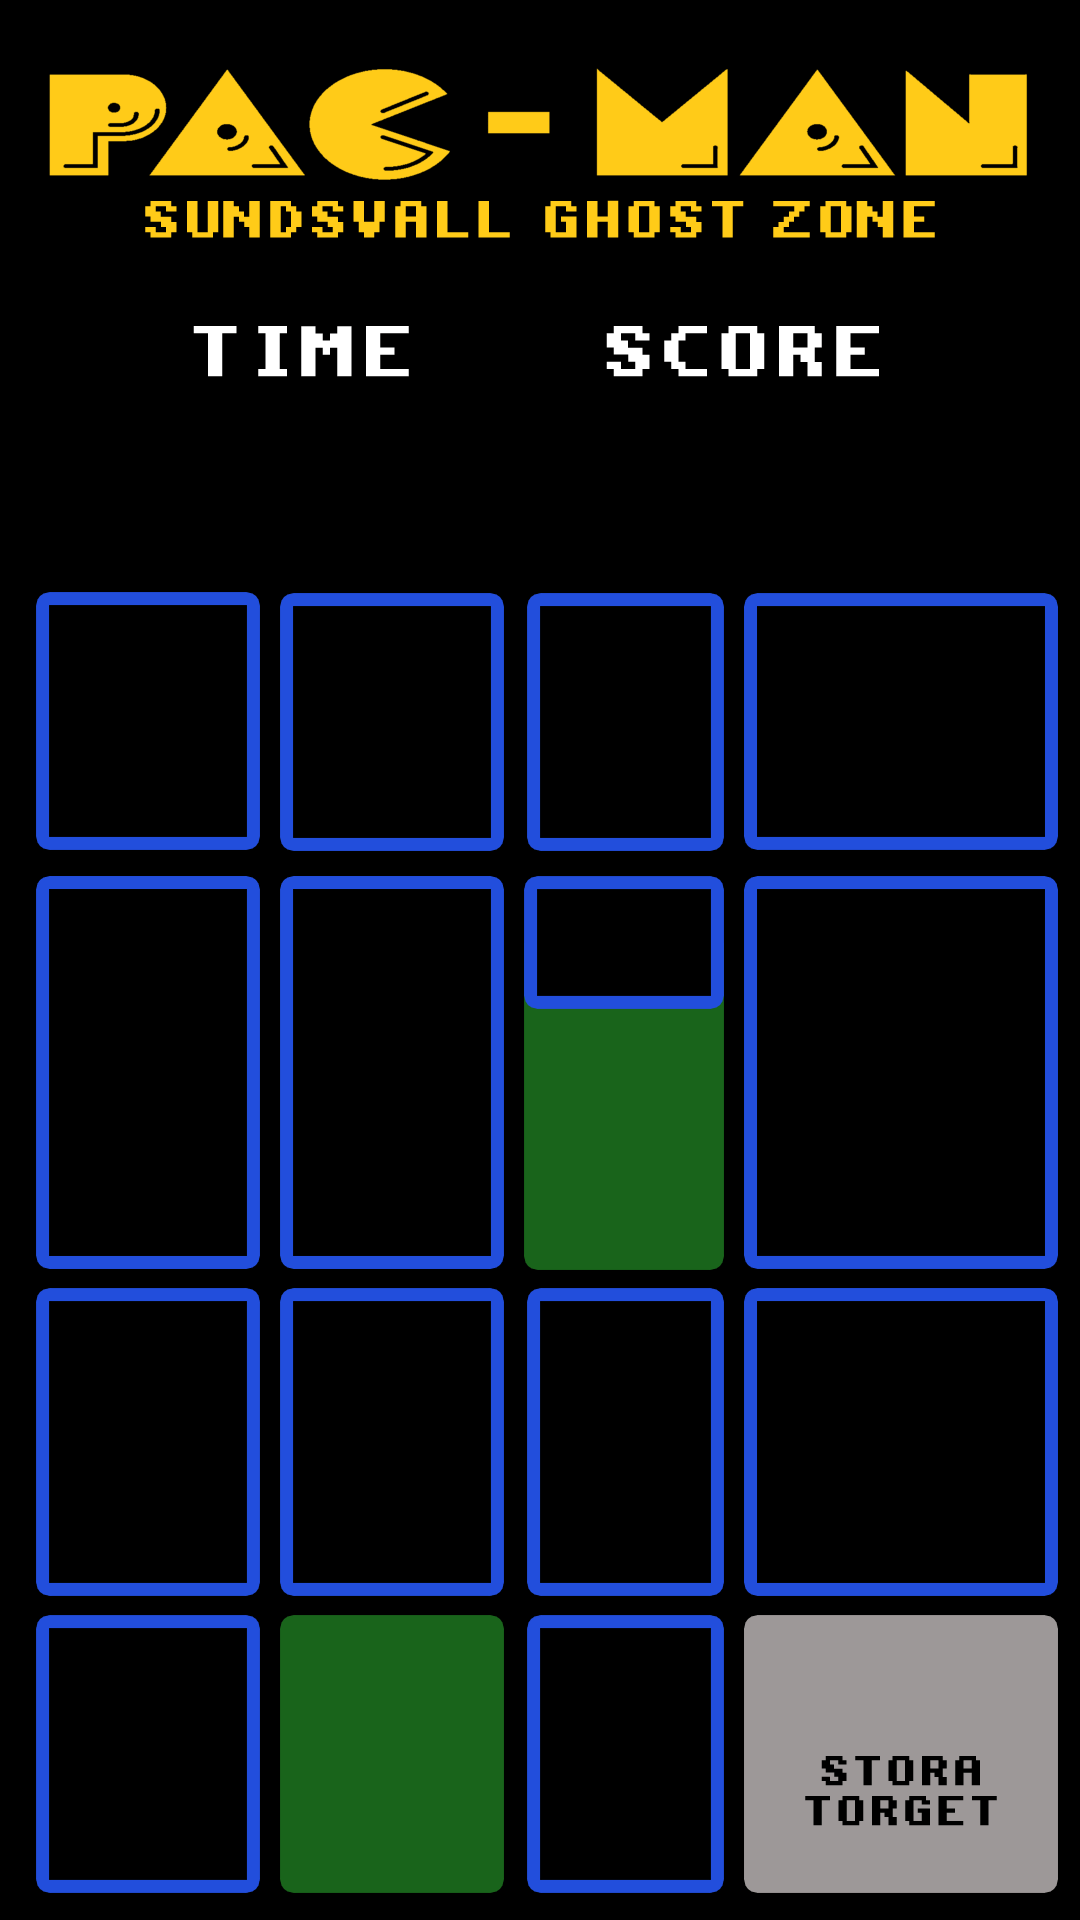
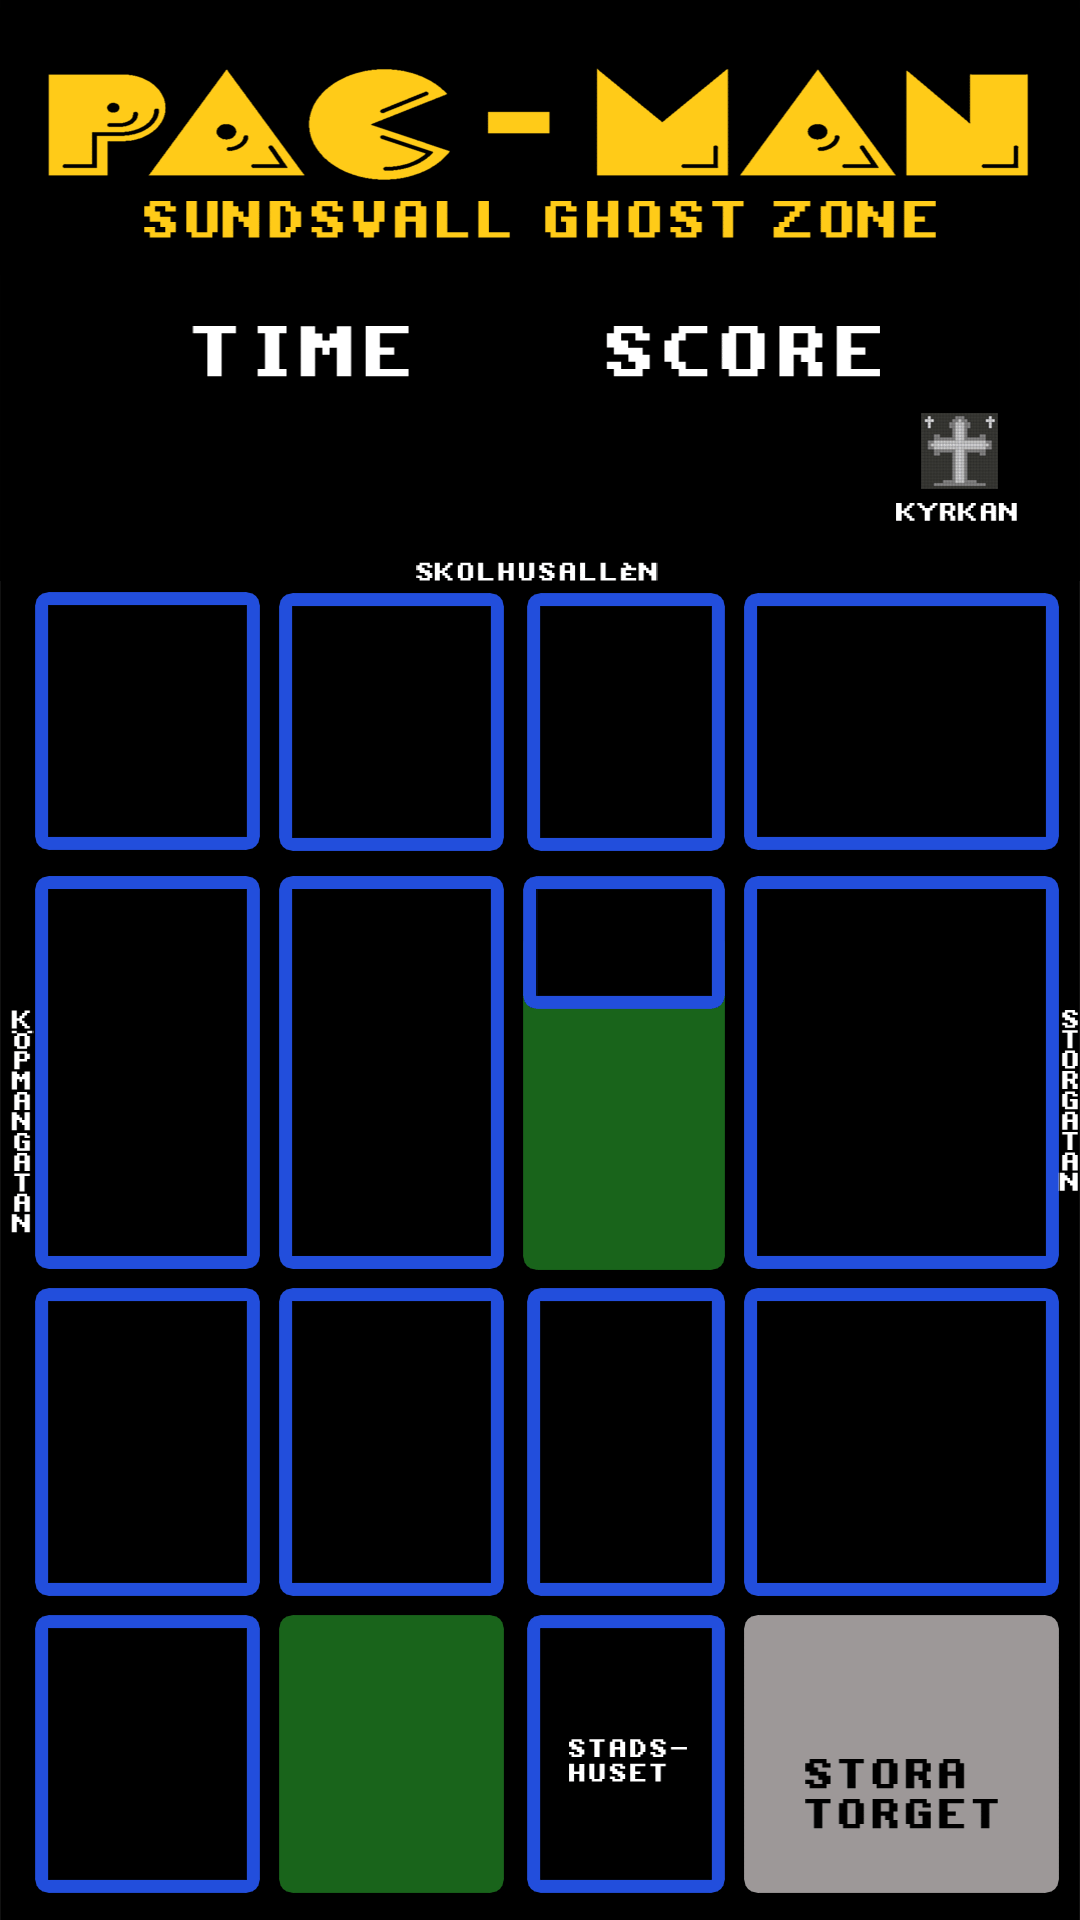
Added map marker button and changed original board. Also slowed down the ghosts a bit

diff --git a/pacman.min.js b/pacman.min.js
@@ -1,1 +1,1 @@
-const gameWidth=1080,gameHeight=1920;var gameStarted=!1,noSleep=new NoSleep;function calculateDistance(q,s,u,v){var z=(u-q).toRad(),A=(v-s).toRad(),B=Math.sin(z/2)*Math.sin(z/2)+Math.cos(q.toRad())*Math.cos(u.toRad())*Math.sin(A/2)*Math.sin(A/2),C=2*Math.atan2(Math.sqrt(B),Math.sqrt(1-B));return 6371000*C}Number.prototype.toRad=function(){return this*Math.PI/180};function lerp(q,s,u){return q*(1-u)+s*u}function calculateSnapGrid(){var q={x:37,y:861,lat:62.389415,lon:17.301815},s={x:1053,y:861,lat:62.391632,lon:17.302909},u={x:37,y:1279,lat:62.389211,lon:17.303724},v={x:1053,y:1279,lat:62.391394,lon:17.304851},w={x:37,y:1605,lat:62.389052,lon:17.305226},z={x:1053,y:1605,lat:62.39123,lon:17.306374},A={x:269,y:593,lat:62.390056,lon:17.30087},B={x:269,y:1891,lat:62.38945,lon:17.306793},C={x:514,y:593,lat:62.390573,lon:17.301106},D={x:514,y:1891,lat:62.389917,lon:17.307104},E={x:731,y:593,lat:62.391085,lon:17.301332},F={x:731,y:1891,lat:62.390374,lon:17.307372},G={x:37,y:593,lat:62.389549,lon:17.300591},H={x:37,y:1891,lat:62.388898,lon:17.306525},I={x:1053,y:1891,lat:62.391066,lon:17.307737},J={x:1053,y:593,lat:62.391752,lon:17.301772};const K=100;for(var L=[[q,s],[u,v],[w,z],[A,B],[C,D],[E,F],[G,H],[H,I],[J,I],[G,J]],M=[],J=0;J<L.length;J++)for(var P,N=L[J][0],O=L[J][1],C=0;C<=K;C++)P={lat:lerp(N.lat,O.lat,C/K),lon:lerp(N.lon,O.lon,C/K),x:Math.round(lerp(N.x,O.x,C/K)),y:Math.round(lerp(N.y,O.y,C/K))},M.push(P);return M}$(function(){$("#startGame").click(function(){$("#register").hide(),noSleep.enable(),startGame()})});function startGame(){function q(){D(ca.renderer,ca.stage)}function u(da,ea,fa){return da*(1-fa)+ea*fa}function v(da,ea,fa,ga,ha){for(var ia=0;ia<ga;ia++){if(ha!==void 0&&0<ha.length&&ia===ha[0]){ha.shift();continue}dot=new aa(Z["assets/pacdot.png"].texture),dot.position.set(u(da,ea,ia/ga),fa),ca.stage.addChild(dot),L.push(dot)}}function w(da,ea,fa,ga,ha){for(var ia=0;ia<ga;ia++){if(ha!==void 0&&0<ha.length&&ia===ha[0]){ha.shift();continue}dot=new aa(Z["assets/pacdot.png"].texture),dot.position.set(fa,u(da,ea,ia/ga)),ca.stage.addChild(dot),L.push(dot)}}function z(){this.progress.toFixed(0)}function A(){let da=0.5;H=new aa(Z["assets/board.png"].texture),ca.stage.addChild(H),ca.stage.addChild(T),ca.stage.addChild(U),ca.stage.addChild(V),T.position.set(650,390),U.position.set(184,390),V.position.set((gameWidth-V.width)/2,480),v(60,1060,1600,25,[5,11,17]),v(60,1060,1273,25,[5,17]),v(60,1060,857,25,[5,11]),w(591,1920,265,35),w(591,1920,510,35,[18]),w(591,1920,728,35,[7]),I=new aa(Z["assets/pacman.png"].texture),I.position.set(-30,-30),I.vx=0,I.vy=0,I.anchor.set(0.5,0.5),ca.stage.addChild(I),geocache=new aa(Z["assets/geocache.png"].texture),geocache.position.set(850,1645),geocache.visible=!1,ca.stage.addChild(geocache),[{name:"blue",x:234,y:580,vy:da,vx:0},{name:"pink",x:700,y:880,vy:da,vx:0},{name:"yellow",x:480,y:1240,vy:0,vx:-da},{name:"red",x:20,y:1564,vy:0,vx:da}].forEach(function(fa){var ga=new aa(Z["assets/"+fa.name+"ghost.png"].texture);ga.position.set(fa.x,fa.y),ca.stage.addChild(ga),ga.data=fa,N.push(ga)}),M=L.length,J=new aa(Z["assets/gameover.png"].texture),J.position.set(350,900),J.visible=!1,ca.stage.addChild(J),K=new aa(Z["assets/winner.png"].texture),K.position.set((gameWidth-K.width)/2,800),K.visible=!1,ca.stage.addChild(K),ca.ticker.add(fa=>B(fa)),setInterval(function(){q()},2e3),W=new Date}function B(){L.forEach(function(ea){ea.visible&&C(ea,I)&&(ea.visible=!1,M--,S+=100,T.text=S,O.play())}),0===M&&(ca.ticker.stop(),geocache.visible=!0,K.visible=!0,$.post("saveresult.php",{username:$("#username").val(),timespent:X,score:S},function(ea){console.log(ea)})),N.forEach(function(ea){ea.x+=ea.data.vx,ea.y+=ea.data.vy,(20>ea.x||ea.x>gameWidth-(ea.width+20))&&(ea.data.vx=-ea.data.vx),(560>ea.y||ea.y>gameHeight-(ea.height+20))&&(ea.data.vy=-ea.data.vy)}),N.forEach(function(ea){!1===P.playing&&C(ea,I)&&(P.play(),ea.visible=!1,J.visible=!0,I.visible=!1,ca.ticker.stop())}),X=(Date.parse(new Date)-Date.parse(W))/1e3,U.text=("0"+Math.floor(X/60)).slice(-2)+":"+("0"+X%60).slice(-2)}function C(da,ea){let fa,ga,ha,ia,ja;return fa=!1,da.centerX=da.x+da.width/2-da.anchor.x*da.width,da.centerY=da.y+da.height/2-da.anchor.y*da.height,ea.centerX=ea.x+ea.width/2-ea.anchor.x*ea.width,ea.centerY=ea.y+ea.height/2-ea.anchor.y*ea.height,da.halfWidth=da.width/2,da.halfHeight=da.height/2,ea.halfWidth=ea.width/2,ea.halfHeight=ea.height/2,ia=da.centerX-ea.centerX,ja=da.centerY-ea.centerY,ga=da.halfWidth+ea.halfWidth,ha=da.halfHeight+ea.halfHeight,fa=!!(Math.abs(ia)<ga)&&!!(Math.abs(ja)<ha),fa}function D(da,ea){var fa=E(gameWidth,gameHeight,window.innerWidth,window.innerHeight);ea.scale.x=fa.width/gameWidth,ea.scale.y=fa.height/gameHeight,da.resize(fa.width,fa.height)}function E(da,ea,fa,ga){var ha=Math.min(fa/da,ga/ea);return{width:da*ha,height:ea*ha}}var H,I,J,K,M,L=[],N=[],O,P,Q;console.log($("#username").val());var W,X,S=0,T=new PIXI.Text("0",{fontFamily:"Courier",fontSize:80,fill:"white",fontWeight:"bold"}),U=new PIXI.Text("00:00",{fontFamily:"Courier",fontSize:80,fill:"white",fontWeight:"bold"}),V=new PIXI.Text($("#username").val(),{fontFamily:"Courier",fontSize:80,fill:"white",fontWeight:"bold"});let Y=PIXI.Application,Z=PIXI.loader.resources,_=PIXI.loader,aa=PIXI.Sprite,ba=calculateSnapGrid();navigator.geolocation?navigator.geolocation.watchPosition(function(da){for(var fa,ea=1e4,ga=0;ga<ba.length;ga++){var ha=ba[ga],ia=calculateDistance(ha.lat,ha.lon,da.coords.latitude,da.coords.longitude);ia<ea&&(fa=ha,ea=ia)}I.position.set(fa.x,fa.y),I.rotation=da.coords.heading.toRad()},function(da){alert("Error getting GPS position! You must open the link from your mobile browser, the GC-application won't work!\nError: "+da.message)},{enableHighAccuracy:!0,timeout:1e4,maximumAge:0}):alert("Sorry! Cannot access the GPS on your device");let ca=new Y({width:gameWidth,height:gameHeight});ca.renderer.autoResize=!0,document.body.appendChild(ca.view),window.addEventListener("resize",q),q();(function(){sounds.load(["assets/eat-pill.mp3","assets/eat-fruit.mp3","assets/eating.mp3","assets/ready.mp3","assets/siren.mp3","assets/die.mp3"]),sounds.whenLoaded=function(){},O=sounds["assets/eating.mp3"],Q=sounds["assets/siren.mp3"],P=sounds["assets/die.mp3"],_.add(["blueghost.png","cherry.png","pacdot.png","pinkghost.png","redghost.png","board.png","gameover.png","pacman.png","realmap.png","ready.png","yellowghost.png","geocache.png","winner.png"].map(fa=>"assets"+"/"+fa)).on("progress",z).load(A)})()}
+const gameWidth=1080,gameHeight=1920;var gameStarted=!1,noSleep=new NoSleep;function calculateDistance(q,s,u,v){var z=(u-q).toRad(),A=(v-s).toRad(),B=Math.sin(z/2)*Math.sin(z/2)+Math.cos(q.toRad())*Math.cos(u.toRad())*Math.sin(A/2)*Math.sin(A/2),C=2*Math.atan2(Math.sqrt(B),Math.sqrt(1-B));return 6371000*C}Number.prototype.toRad=function(){return this*Math.PI/180};function lerp(q,s,u){return q*(1-u)+s*u}function calculateSnapGrid(){var q={x:37,y:861,lat:62.389415,lon:17.301815},s={x:1053,y:861,lat:62.391632,lon:17.302909},u={x:37,y:1279,lat:62.389211,lon:17.303724},v={x:1053,y:1279,lat:62.391394,lon:17.304851},w={x:37,y:1605,lat:62.389052,lon:17.305226},z={x:1053,y:1605,lat:62.39123,lon:17.306374},A={x:269,y:593,lat:62.390056,lon:17.30087},B={x:269,y:1891,lat:62.38945,lon:17.306793},C={x:514,y:593,lat:62.390573,lon:17.301106},D={x:514,y:1891,lat:62.389917,lon:17.307104},E={x:731,y:593,lat:62.391085,lon:17.301332},F={x:731,y:1891,lat:62.390374,lon:17.307372},G={x:37,y:593,lat:62.389549,lon:17.300591},H={x:37,y:1891,lat:62.388898,lon:17.306525},I={x:1053,y:1891,lat:62.391066,lon:17.307737},J={x:1053,y:593,lat:62.391752,lon:17.301772};const K=100;for(var L=[[q,s],[u,v],[w,z],[A,B],[C,D],[E,F],[G,H],[H,I],[J,I],[G,J]],M=[],J=0;J<L.length;J++)for(var P,N=L[J][0],O=L[J][1],C=0;C<=K;C++)P={lat:lerp(N.lat,O.lat,C/K),lon:lerp(N.lon,O.lon,C/K),x:Math.round(lerp(N.x,O.x,C/K)),y:Math.round(lerp(N.y,O.y,C/K))},M.push(P);return M}$(function(){$("#startGame").click(function(){$("#register").hide(),noSleep.enable(),startGame()})});function startGame(){function q(){D(ea.renderer,ea.stage)}function u(fa,ga,ha){return fa*(1-ha)+ga*ha}function v(fa,ga,ha,ia,ja){for(var ka=0;ka<ia;ka++){if(ja!==void 0&&0<ja.length&&ka===ja[0]){ja.shift();continue}dot=new ca(aa["assets/pacdot.png"].texture),dot.position.set(u(fa,ga,ka/ia),ha),ea.stage.addChild(dot),N.push(dot)}}function w(fa,ga,ha,ia,ja){for(var ka=0;ka<ia;ka++){if(ja!==void 0&&0<ja.length&&ka===ja[0]){ja.shift();continue}dot=new ca(aa["assets/pacdot.png"].texture),dot.position.set(ha,u(fa,ga,ka/ia)),ea.stage.addChild(dot),N.push(dot)}}function z(){this.progress.toFixed(0)}function A(){let fa=0.25;H=new ca(aa["assets/board.png"].texture),I=new ca(aa["assets/realmap.png"].texture),I.position.set(0,gameHeight-I.height),I.alpha=0,J=new ca(aa["assets/mapmarker.png"].texture),J.position.set((gameWidth-J.width)/2-20,300),J.interactive=!0,J.buttonMode=!0,J.on("pointerdown",function(){0<I.alpha?(console.log("Setting alpha 0"),I.alpha=0):(console.log("Setting alpha 0.6"),I.alpha=1)}),ea.stage.addChild(H),ea.stage.addChild(I),ea.stage.addChild(J),ea.stage.addChild(V),ea.stage.addChild(W),ea.stage.addChild(X),V.position.set(650,390),W.position.set(184,390),X.position.set((gameWidth-X.width)/2,480),v(60,1060,1600,25,[5,11,17]),v(60,1060,1273,25,[5,17]),v(60,1060,857,25,[5,11]),w(591,1920,265,35),w(591,1920,510,35,[18]),w(591,1920,728,35,[7]),K=new ca(aa["assets/pacman.png"].texture),K.position.set(-30,-30),K.vx=0,K.vy=0,K.anchor.set(0.5,0.5),ea.stage.addChild(K),geocache=new ca(aa["assets/geocache.png"].texture),geocache.position.set(850,1645),geocache.visible=!1,ea.stage.addChild(geocache),[{name:"blue",x:234,y:580,vy:fa,vx:0},{name:"pink",x:700,y:880,vy:fa,vx:0},{name:"yellow",x:480,y:1240,vy:0,vx:-fa},{name:"red",x:20,y:1564,vy:0,vx:fa}].forEach(function(ha){var ia=new ca(aa["assets/"+ha.name+"ghost.png"].texture);ia.position.set(ha.x,ha.y),ea.stage.addChild(ia),ia.data=ha,P.push(ia)}),O=N.length,L=new ca(aa["assets/gameover.png"].texture),L.position.set(350,900),L.visible=!1,ea.stage.addChild(L),M=new ca(aa["assets/winner.png"].texture),M.position.set((gameWidth-M.width)/2,800),M.visible=!1,ea.stage.addChild(M),ea.ticker.add(ha=>B(ha)),setInterval(function(){q()},2e3),Y=new Date}function B(){N.forEach(function(ga){ga.visible&&C(ga,K)&&(ga.visible=!1,O--,U+=100,V.text=U,Q.play())}),0===O&&(ea.ticker.stop(),geocache.visible=!0,M.visible=!0,$.post("saveresult.php",{username:$("#username").val(),timespent:Z,score:U},function(ga){console.log(ga)})),P.forEach(function(ga){ga.x+=ga.data.vx,ga.y+=ga.data.vy,(20>ga.x||ga.x>gameWidth-(ga.width+20))&&(ga.data.vx=-ga.data.vx),(560>ga.y||ga.y>gameHeight-(ga.height+20))&&(ga.data.vy=-ga.data.vy)}),P.forEach(function(ga){!1===S.playing&&C(ga,K)&&(S.play(),ga.visible=!1,L.visible=!0,K.visible=!1,ea.ticker.stop())}),Z=(Date.parse(new Date)-Date.parse(Y))/1e3,W.text=("0"+Math.floor(Z/60)).slice(-2)+":"+("0"+Z%60).slice(-2)}function C(fa,ga){let ha,ia,ja,ka,la;return ha=!1,fa.centerX=fa.x+fa.width/2-fa.anchor.x*fa.width,fa.centerY=fa.y+fa.height/2-fa.anchor.y*fa.height,ga.centerX=ga.x+ga.width/2-ga.anchor.x*ga.width,ga.centerY=ga.y+ga.height/2-ga.anchor.y*ga.height,fa.halfWidth=fa.width/2,fa.halfHeight=fa.height/2,ga.halfWidth=ga.width/2,ga.halfHeight=ga.height/2,ka=fa.centerX-ga.centerX,la=fa.centerY-ga.centerY,ia=fa.halfWidth+ga.halfWidth,ja=fa.halfHeight+ga.halfHeight,ha=!!(Math.abs(ka)<ia)&&!!(Math.abs(la)<ja),ha}function D(fa,ga){var ha=E(gameWidth,gameHeight,window.innerWidth,window.innerHeight);ga.scale.x=ha.width/gameWidth,ga.scale.y=ha.height/gameHeight,fa.resize(ha.width,ha.height)}function E(fa,ga,ha,ia){var ja=Math.min(ha/fa,ia/ga);return{width:fa*ja,height:ga*ja}}var H,I,J,K,L,M,O,N=[],P=[],Q,S,T;console.log($("#username").val());var Y,Z,U=0,V=new PIXI.Text("0",{fontFamily:"Courier",fontSize:80,fill:"white",fontWeight:"bold"}),W=new PIXI.Text("00:00",{fontFamily:"Courier",fontSize:80,fill:"white",fontWeight:"bold"}),X=new PIXI.Text($("#username").val(),{fontFamily:"Courier",fontSize:80,fill:"white",fontWeight:"bold"});let _=PIXI.Application,aa=PIXI.loader.resources,ba=PIXI.loader,ca=PIXI.Sprite,da=calculateSnapGrid();navigator.geolocation?navigator.geolocation.watchPosition(function(fa){for(var ha,ga=1e4,ia=0;ia<da.length;ia++){var ja=da[ia],ka=calculateDistance(ja.lat,ja.lon,fa.coords.latitude,fa.coords.longitude);ka<ga&&(ha=ja,ga=ka)}K.position.set(ha.x,ha.y),null!==fa.coords.heading&&(K.rotation=fa.coords.heading.toRad())},function(fa){alert("Error getting GPS position! You must open the link from your mobile browser, the GC-application won't work!\nError: "+fa.message)},{enableHighAccuracy:!0,timeout:1e4,maximumAge:0}):alert("Sorry! Cannot access the GPS on your device");let ea=new _({width:gameWidth,height:gameHeight});ea.renderer.autoResize=!0,document.body.appendChild(ea.view),window.addEventListener("resize",q),q();(function(){sounds.load(["assets/eat-pill.mp3","assets/eat-fruit.mp3","assets/eating.mp3","assets/ready.mp3","assets/siren.mp3","assets/die.mp3"]),sounds.whenLoaded=function(){},Q=sounds["assets/eating.mp3"],T=sounds["assets/siren.mp3"],S=sounds["assets/die.mp3"],ba.add(["blueghost.png","cherry.png","pacdot.png","pinkghost.png","redghost.png","board.png","mapmarker.png","gameover.png","pacman.png","realmap.png","ready.png","yellowghost.png","geocache.png","winner.png"].map(ha=>"assets"+"/"+ha)).on("progress",z).load(A)})()}

diff --git a/pacman.js b/pacman.js
@@ -105,6 +105,8 @@ $(function() {
 function startGame() {
 	// Sprites
 	var board,
+		realMap,
+		mapMarker,
 		pacman,
 		gameover,
 		winner,
@@ -166,6 +168,7 @@ function startGame() {
 			"pinkghost.png",
 			"redghost.png",
 			"board.png",
+			"mapmarker.png",
 			"gameover.png",
 			"pacman.png",
 			"realmap.png",
@@ -230,7 +233,7 @@ function startGame() {
 	}
 
 	function setup() {
-		let ghostSpeed = 0.5;
+		let ghostSpeed = 0.25;
 		var ghostData = [
 			{ name: "blue", x: 234, y: 580, vy: ghostSpeed, vx: 0 },
 			{ name: "pink", x: 700, y: 880, vy: ghostSpeed, vx: 0 },
@@ -239,8 +242,27 @@ function startGame() {
 		];
 
 		board = new Sprite(resources["assets/board.png"].texture);
+		realMap = new Sprite(resources["assets/realmap.png"].texture);
+		realMap.position.set(0, gameHeight - realMap.height);
+		realMap.alpha = 0.0;
+		mapMarker = new Sprite(resources["assets/mapmarker.png"].texture);
+		mapMarker.position.set((gameWidth - mapMarker.width) / 2 - 20, 300);
+		mapMarker.interactive = true;
+		mapMarker.buttonMode = true;
+		mapMarker.on("pointerdown", function() {
+			if (realMap.alpha > 0) {
+				console.log("Setting alpha 0");
+				realMap.alpha = 0.0;
+			}
+			else {
+				console.log("Setting alpha 0.6");
+				realMap.alpha = 1.0;
+			}
+		});
 
 		app.stage.addChild(board);
+		app.stage.addChild(realMap);
+		app.stage.addChild(mapMarker);
 		app.stage.addChild(scoreText);
 		app.stage.addChild(timeText);
 		app.stage.addChild(nameText);
@@ -422,7 +444,9 @@ function startGame() {
 		}
 
 		pacman.position.set(closestPoint.x, closestPoint.y);
-		pacman.rotation = (position.coords.heading).toRad();
+		if (position.coords.heading !== null) {
+			pacman.rotation = (position.coords.heading).toRad();
+		}
 	}
 
 	function errorPosition(error) {

diff --git a/index.html b/index.html
@@ -16,6 +16,6 @@
 		<script type="text/javascript" src="https://cdnjs.cloudflare.com/ajax/libs/proj4js/2.4.4/proj4.js"></script>
 		<script type="text/javascript" src="NoSleep.min.js"></script>
 		<script type="text/javascript" src="sound.js"></script>
-		<script type="text/javascript" src="pacman.min.js?v=5"></script>
+		<script type="text/javascript" src="pacman.min.js?v=6"></script>
 	</body>
 </html>
